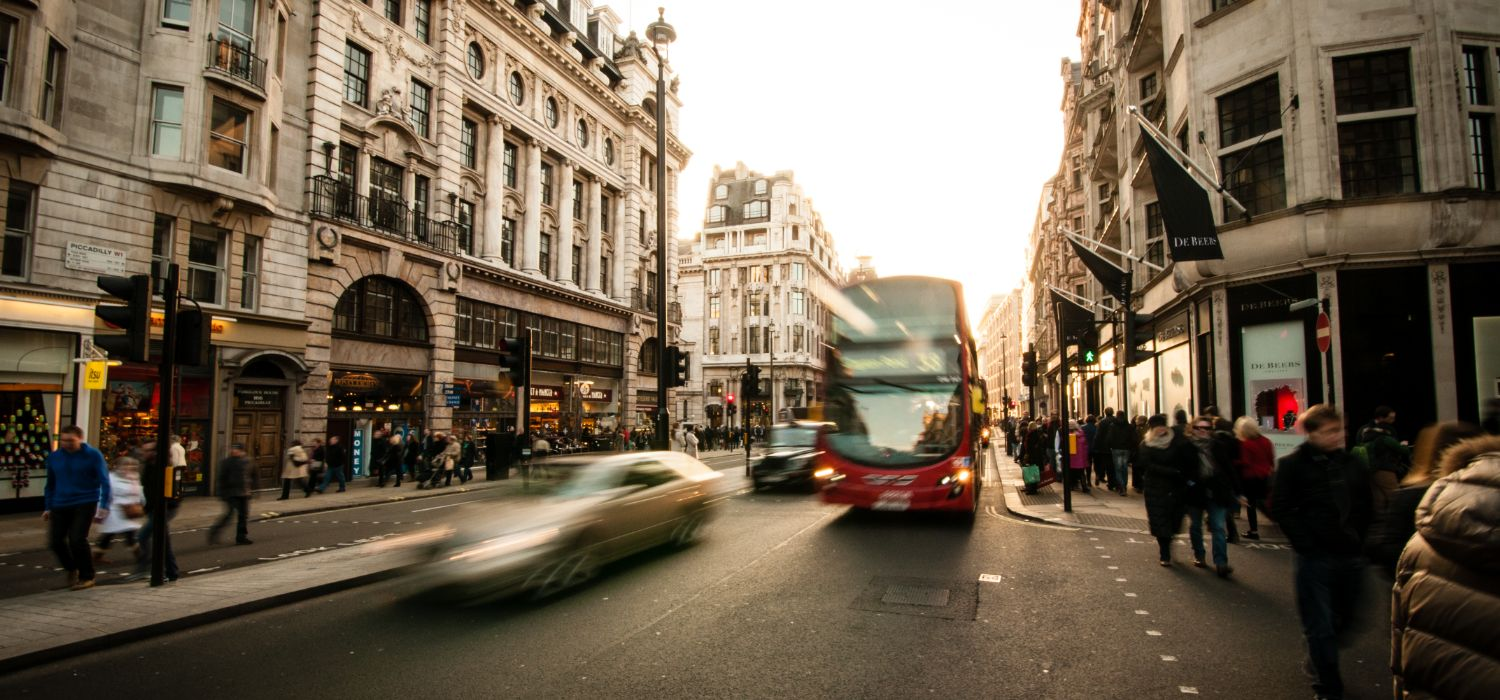
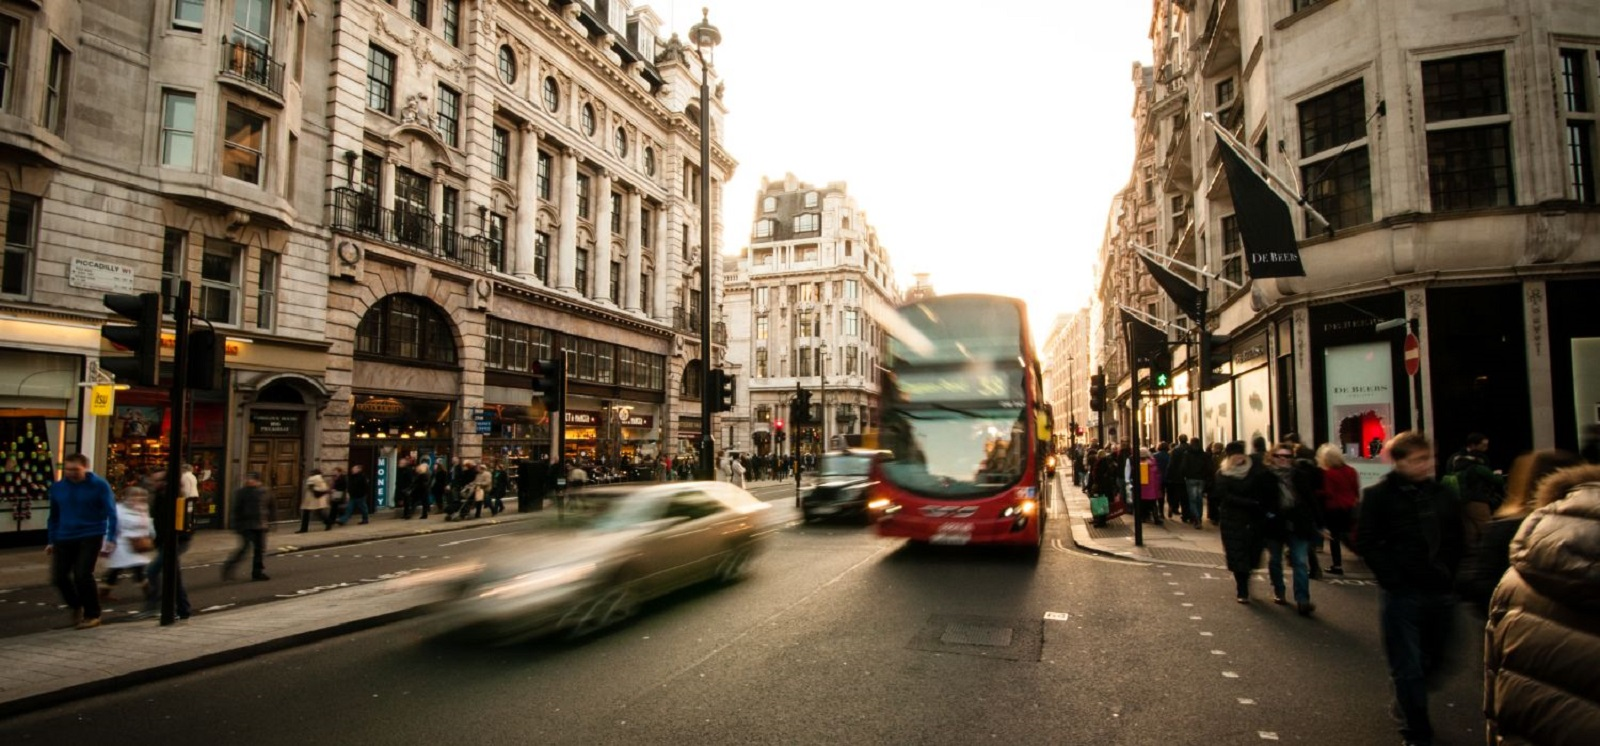
Inicio da Criação do Header

diff --git a/index.html b/index.html
@@ -1,0 +1,46 @@
+<!DOCTYPE html>
+<html lang="pt-br">
+<head>
+    <meta charset="UTF-8">
+    <meta http-equiv="X-UA-Compatible" content="IE=edge">
+    <meta name="viewport" content="width=device-width, initial-scale=1.0">
+    <link rel="stylesheet" href="src/css/main.css">
+    <title>Document</title>
+</head>
+<body>
+      <header>
+            <nav class="nav-main">
+                <div class="logo-gps" >
+                    <div class="gps">icon1</div>
+                    <div class="logo">Logo</div>
+                </div>
+                <div class="search">
+                    icon2
+                </div>                
+            </nav>
+            <div class="background-header">
+                <div class="menu-compra">
+                    <div class="servicos">
+                        <div class="icon-servicos"><span class="flight-icon">icon1</span><span class="flight-text">Flight</span></div>
+                        <div class="icon-servicos"><span class="hotel-icon">icon2</span><span class="flight-text">Hotel</span></div>
+                        <div class="icon-servicos"><span class="rental-icon">icon3</span><span class="flight-text">Rental</span></div>
+                    </div>
+                    <h1 class="titulo-servico">Travel the world with us</h1>
+                    <form action="" class="formulario">
+                        <fieldset>
+                            <div class="form-from">
+                                <label>From</label>
+                                <input type="text" name="" id="">
+                            </div>
+                            <div class="form-to">
+                                <label>to</label>
+                                <input type="text" name="" id="">
+                            </div>
+                            <button class="button-pesquisar">Search and find dates</button>
+                        </fieldset>
+                    </form>
+                </div>
+            </div>
+      </header>  
+</body>
+</html>

diff --git a/src/css/main.css b/src/css/main.css
@@ -1,0 +1,64 @@
+*{
+    margin: 0;
+    padding: 0;
+    font-size: 16px;
+    font-family: Verdana, Geneva, Tahoma, sans-serif;
+    border: 0px;
+}
+header{
+    width: 100vw;
+}
+.nav-main{
+    height: 40px;
+    display: flex;
+    justify-content: space-between;
+    align-items: center;
+    padding: 10px;
+}
+.logo-gps{
+    display: flex;
+    align-items: center;
+}
+.gps{
+    margin-right: 10px;
+}
+.logo{
+    font-size: 20px;
+    color: #f44336;
+    font-weight: 500;
+}
+.background-header{
+    background: url('/SiteDevMedia/src/img/london.jpg') no-repeat;
+    width: 100%;
+    margin: center;
+    height: 600px;
+    display: flex;
+    justify-content: center;
+    align-items: center;
+    
+}
+.menu-compra{
+    width: 600px;
+    height: 250px;
+    padding: 0px 20px;  
+    background-color: #FFF;
+}
+.servicos{
+    display: flex;
+    height: 40px;
+    background-color: #000;
+    color: #FFF;
+}
+.icon-servicos{
+    width: 200px;
+    font-size: 14px;
+    display: flex;
+    justify-content: center;
+    align-items: center;
+}
+.flight-icon, .hotel-icon, .rental-icon{
+    margin-right: 5px;
+}
+.titulo-servico{
+
+}

diff --git a/README.md b/README.md
@@ -1,2 +1,4 @@
 # SiteEstatico
 Site feito de acordo com o layout contito da pasta src...
+
+Cores: #f44336, #616161,
